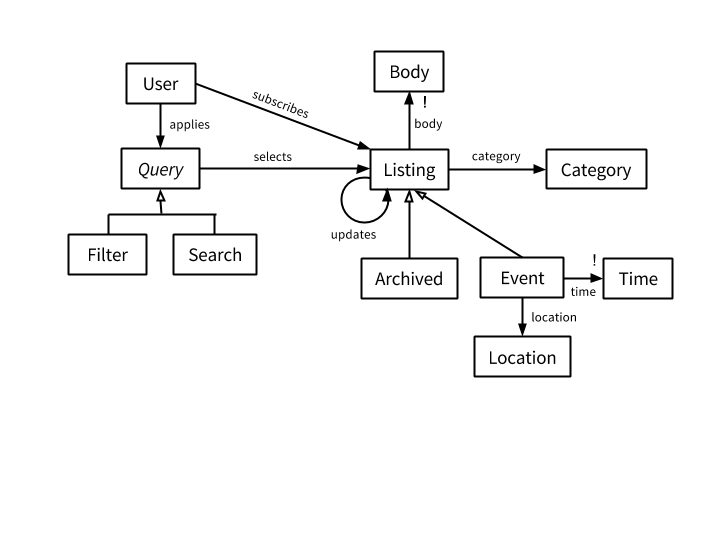
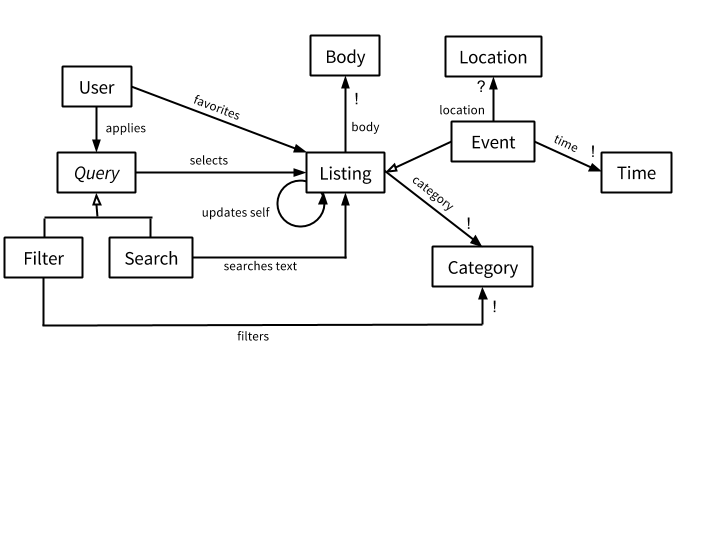
Updated design docs.

Changed region(s): [[0.0, 0.0593, 0.9472, 0.7111], [0.3972, 0.4148, 0.4278, 0.4444]]

diff --git a/docs/design.md b/docs/design.md
@@ -6,9 +6,10 @@ Huntr aims to organize Anne Hunter's emails into a useful, intuitive graphical i
 
 Goals of Huntr include:
 
-* Sort and display most pertinent information from Anne Hunter's emails
-* Allow users to personalize the listings that are most important to them
-* Hook into users’ personal calendars
+* Sort and display the most pertinent information (e.g., deadlines, category, time/location) from Anne Hunter's emails
+* Allow users to curate the listings to their interests
+* Let users export listings to their personal calendar systems
+* Experiment with building an web interface that integrates emails
 
 ### Context diagram
 
@@ -18,10 +19,10 @@ Goals of Huntr include:
 ### Key concepts
 
 * An **email** is a message from Anne Hunter.
-* A **listing** is a processed email. Listings with a date/time are called **events**, and listings become **archived** after a predetermined period of time.
-* A user can **filter** the listings by pre-determined categories.
-* A user can **search** the listings for any desired string.
-* A **subscription** allows a user to save listings of interest.
+* A **listing** is a processed email. Listings with a date/time are called **events**.
+* A user can **filter** the listings by **category**, which are chosen from predetermined categories including events, internships, announcements, etc.
+* A user can **search** the text of the listings for a desired string.
+* A user can **favorite** listings of interest for easy access.
 
 ### Data model
 
@@ -37,9 +38,26 @@ Goals of Huntr include:
 
 ### Security concerns
 
-To use Huntr, you must register with an @mit.edu address.  This limits the app’s users to people who would otherwise have access to Anne Hunter’s mailing list, i.e. the MIT community.  Besides email addresses (which are publicly accessible via MIT people search anyway), Huntr does not request or store any personal information from its users and thus bear no risk of exposing sensitive information.
+#### Security Requirements
+* Only users with MIT email addresses are provided access to Huntr.  This limits Huntr’s data to users who would otherwise have access to Anne Hunter’s emails (MIT community).
+* Users must be logged in to view listings.
+* Users cannot view other users' favorites.
+* No exposure of sensitive information. Huntr stores no personal information from users besides email addresses, which are publicly searchable via MIT people search.
 
-To circumvent the risk of users signing up with fake kerberos or @mit.edu addresses that do not belong to them, we will use email verification to ensure that they are indeed the owners of those addresses.  Furthermore, if someone else’s address is used to sign up, this verifying email will contain a link that allows the recipient to indicate that they did not intend to sign up for the service.  In this case, the email address will be blacklisted from registering for 24 hours, thus deterring trolls and other malicious users.
+#### Threat Model
+Hacking the email account that Huntr processes emails from
+Spoofing emails from Anne Hunter
+Taking control of other users’ accounts and changing their favorited listings
+
+#### Risks and Mitigations
+* **Users sign up with fake Kerberos or email addresses that do not belong to them**  
+  → Use email verification to ensure that they are owners of those addresses. If someone else’s address is used to sign up, the verifying email will contain a link that allows the recipient to indicate that they did not intend to sign up for the service.  In this case, the email address will be blacklisted from registering for 24 hours, thus deterring trolls and other malicious users.
+  
+* **Email server crashes, so Huntr cannot fetch emails to process**  
+  → Retroactively update the database after a crash. Huntr does this by utilizing the “recent:” gmail prefix, which shows all of Huntr’s email from the past thirty days regardless of whether or not it’s been sent to a POP client already. Then, Huntr checks the email against the listings that have already been processed and creates listings for any emails missing from the database.
+  
+* **Email account that Huntr fetches from is hacked**  
+  → We’ll notice if the email is hacked, in which case we’ll create a new account and remove the old account from eecs-jobs-announce. The new account will be used to fetch emails.
 
 ### User interface
 
@@ -52,34 +70,51 @@ To circumvent the risk of users signing up with fake kerberos or @mit.edu addres
 ![Main page](img/wireframe_main.png)
 
 ## Challenges
-
 * Displaying listings on feed
   * Problem: listings need to be displayed in an intuitive yet useful way to maximize information flow from Huntr to users.
-  * Options: creation, last modified, event time
+  
+  * Solutions: creation, last modified, event time
     * Creation would be more intuitive (email default) but no improvement
     * Last modified would incorporate event updates, but similar to default
     * Event time would highlight soonest event, but difficult for non-events
-  * Solution: last modified
-    * Anne Hunter will most likely email reminders for events, so the last modified field of a listing will be updated.
+  * Chosen Solution: last modified
+  
+    * Anne Hunter will most likely email reminders for events, so the last modified field of a listing will be updated. 
 
 * Categorization
   * Problem: how should listings be categorized? Should each listing have more than one category?
-  * Options: categorize by sponsor, listing type, time, location; one or multiple categories
+  
+  * Solutions: categorize by sponsor, listing type, time, location; one or multiple categories
     * Categorization by sponsor seems most useful, but difficult. We could use keyword string search to simplify this process.
     * Multiple categories don’t seem useful since we also have filter/search
-  * Solution: hierarchical categorizer outputs single category or “other” based on listing type
+  * Chosen Solution: hierarchical categorizer outputs single category or “other” based on listing type
+  
+    * Hierarchical categorization.  A listing will be checked against wordlists in order, and once it matches a word, it will be assigned the corresponding category.  This is a better implementation than checking all wordlists and outputting the category with the best match because ‘best match’ is difficult to define.
     * Any listing with a “time” will be considered an event (top layer), then we can search for keywords such as “deadline” or “apply” for jobs, and similarly for announcements and updates.
     * There will be an “other” category for listings that do not match any levels in the categorizer
 
 * Querying listings
-  * Problem: queries can be based on predefined categories or listing metadata or keyword search. How much freedom should the users get?  Can users query on multiple filters?
-  * Options: query by predefined categories, keyword search, listing metadata; single vs multiple filters?
+  * Problem: queries can be performed on predefined categories or listing metadata or keyword search. How much freedom should the users get? Can users query on conditions?
+
+  * Solutions: can query by predefined categories, by keyword search, by listing metadata; can perform query on one condition or multiple conditions
     * By predefined categories would be simple but limiting
     * By keyword search seems slightly useless 
     * By metadata is most flexible but lots of processing
-    * Combining queries might be tricky
-  * Solution: queries can be filters on predefined categories or search on a keyword. Filters and Searches can be stacked
+    * Combining query conditions might be tricky
+
+  * Chosen Solution: queries can be filters on predefined categories or searches based on keywords. A single Filter and multiple Searches can be stacked.
     * Category seems to be the only useful metadata info
     * Keyword search is useful if users want listings from single company
     * Allowing users to stack queries will give them the maximum flexibility and utility with Huntr.
+    
+* Search implementation
+    * Problem:  We want an out-of-the-box gem for full-text searching on databases.
+    
+    * Solutions: use gems such as Sunspot, Textacular
+      * Sunspot runs on Solr and can be used on sqlite databases. Using Solr on Heroku costs money, though, which would be inconvenient in maintaining the service in the future.
+      * Textacular runs on postgres databases, so we would have to migrate our database to postgres.
+    * Chosen Solution: Use Textacular.
+    
+      * It’s a pretty powerful gem for full-text searching.
+      * Migrating to Postgres was a pain but it’s supposed to be faster than sqlite. Also, there will be fewer problems down the line once we deploy to Heroku.
 
